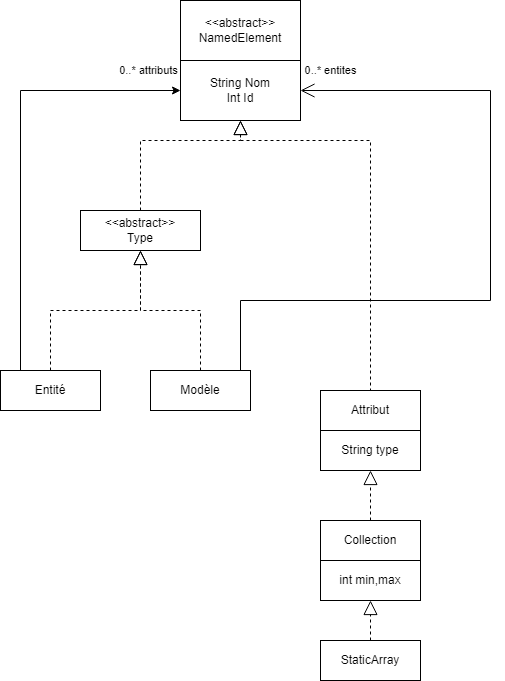
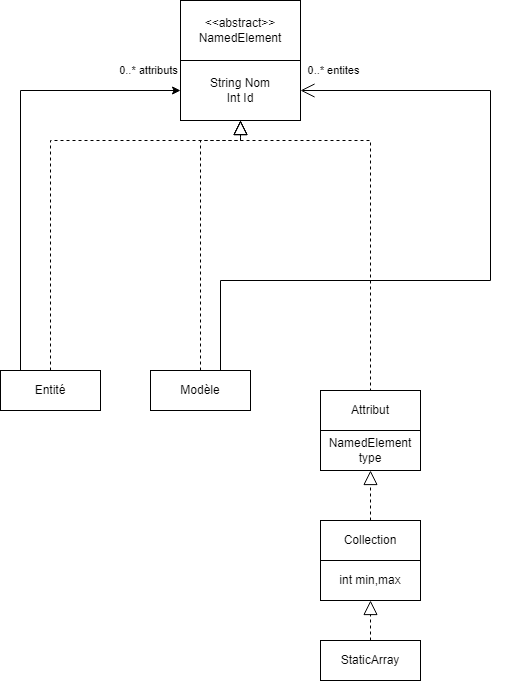
amélioration du diagramme et application

Changed region(s): [[0.2079, 0.3084, 0.3564, 0.4009], [0.6535, 0.6476, 0.802, 0.6784], [0.5941, 0.0925, 0.7129, 0.1233]]

diff --git a/SimpleExpression/src/XMLIO2/XMLAnalyser.java b/SimpleExpression/src/XMLIO2/XMLAnalyser.java
@@ -8,7 +8,6 @@ import java.io.IOException;
 import java.io.InputStream;
 import java.util.ArrayList;
 import java.util.HashMap;
-import java.util.Iterator;
 import java.util.Map;
 
 import javax.xml.parsers.DocumentBuilder;
@@ -27,7 +26,6 @@ import MetaModel.Entite;
 import MetaModel.Modele;
 import MetaModel.NamedElement;
 import MetaModel.StaticArray;
-import MetaModel.Type;
 
 public class XMLAnalyser {
 
@@ -113,7 +111,7 @@ public class XMLAnalyser {
 
 		if (e instanceof Modele && this.childsOfElements.get(e.getId()+"") != null) {
 			for(Integer unNombre : this.childsOfElements.get(e.getId()+"")) {
-				((Modele)e).addType((Type) this.namedElementIndex.get(unNombre+""));
+				((Modele)e).addType(this.namedElementIndex.get(unNombre+""));
 			}
 		} else if(e instanceof Entite && this.childsOfElements.get(e.getId()+"") != null){
 			for(Integer unNombre : this.childsOfElements.get(e.getId()+"")) {

diff --git a/SimpleExpression/src/MetaModel/Attribut.java b/SimpleExpression/src/MetaModel/Attribut.java
@@ -3,9 +3,9 @@ package MetaModel;
 
 public class Attribut extends NamedElement {
 
-	String type; //TODO : type = String ou Type
+	NamedElement type; //TODO : type = String ou Type
 	
-	public Attribut(String type, String nom, int id) { 
+	public Attribut(NamedElement type, String nom, int id) { 
 		super(nom, id);
 		this.type = type;
 	}
@@ -15,11 +15,11 @@ public class Attribut extends NamedElement {
 		v.visitAttribut(this);
 	}
 
-	public String valeur() {
+	public NamedElement valeur() {
 		return type;
 	}
 	
-	public void setType(String type) {
+	public void setType(NamedElement type) {
 		this.type = type;
 	}
 	

diff --git a/SimpleExpression/src/MetaModel/Collection.java b/SimpleExpression/src/MetaModel/Collection.java
@@ -5,7 +5,7 @@ public class Collection extends Attribut {
 	int min;
 	int max;
 	
-	public Collection(String type, String nom, int id, int min, int max) {
+	public Collection(NamedElement type, String nom, int id, int min, int max) {
 		super(type, nom, id);
 		this.min = min;
 		this.max = max;
@@ -24,10 +24,10 @@ public class Collection extends Attribut {
 		v.visitCollection(this);
 	}
 
-	public String valeur() {
+	public NamedElement valeur() {
 		return type;
 	}
-	public void setType(String type) {
+	public void setType(NamedElement type) {
 		this.type = type;
 	}
 

diff --git a/SimpleExpression/src/MetaModel/StaticArray.java b/SimpleExpression/src/MetaModel/StaticArray.java
@@ -3,14 +3,14 @@ package MetaModel;
 public class StaticArray extends Collection{
 
 	
-	public StaticArray(String type, String nom, int id, int max) {
+	public StaticArray(NamedElement type, String nom, int id, int max) {
 		super(type, nom, id, 0, max);
 	}
 	
-	public StaticArray(String type, String nom, int id,int min, int max) {
+	public StaticArray(NamedElement type, String nom, int id,int min, int max) {
 		super(type, nom, id, min, max);
 	}
-	public void setType(String type) {
+	public void setType(NamedElement type) {
 		this.type = type;
 	}
 

diff --git a/SimpleExpression/src/MetaModel/Modele.java b/SimpleExpression/src/MetaModel/Modele.java
@@ -2,7 +2,7 @@ package MetaModel;
 
 import java.util.ArrayList;
 
-public class Modele extends Type {
+public class Modele extends NamedElement {
 
 	ArrayList<NamedElement> entites; //TODO Modifier le type ? 
 	
@@ -23,7 +23,7 @@ public class Modele extends Type {
 		return entites;
 	}
 	
-	public void addType(Type t) {
+	public void addType(NamedElement t) {
 		entites.add(t);
 	}
 	

diff --git a/SimpleExpression/src/backEnd/Compilateur.java b/SimpleExpression/src/backEnd/Compilateur.java
@@ -1,14 +1,10 @@
 package backEnd;
 
-import java.util.List;
-import java.util.Set;
-
 import MetaModel.Attribut;
 import MetaModel.Collection;
 import MetaModel.Entite;
 import MetaModel.Modele;
 import MetaModel.NamedElement;
-import MetaModel.Type;
 import MetaModel.Visitor;
 
 public class Compilateur extends Visitor {

diff --git a/SimpleExpression/src/MetaModel/Entite.java b/SimpleExpression/src/MetaModel/Entite.java
@@ -2,7 +2,7 @@ package MetaModel;
 
 import java.util.ArrayList;
 
-public class Entite extends Type {
+public class Entite extends NamedElement {
 	
 	ArrayList<NamedElement> attributs;
 
